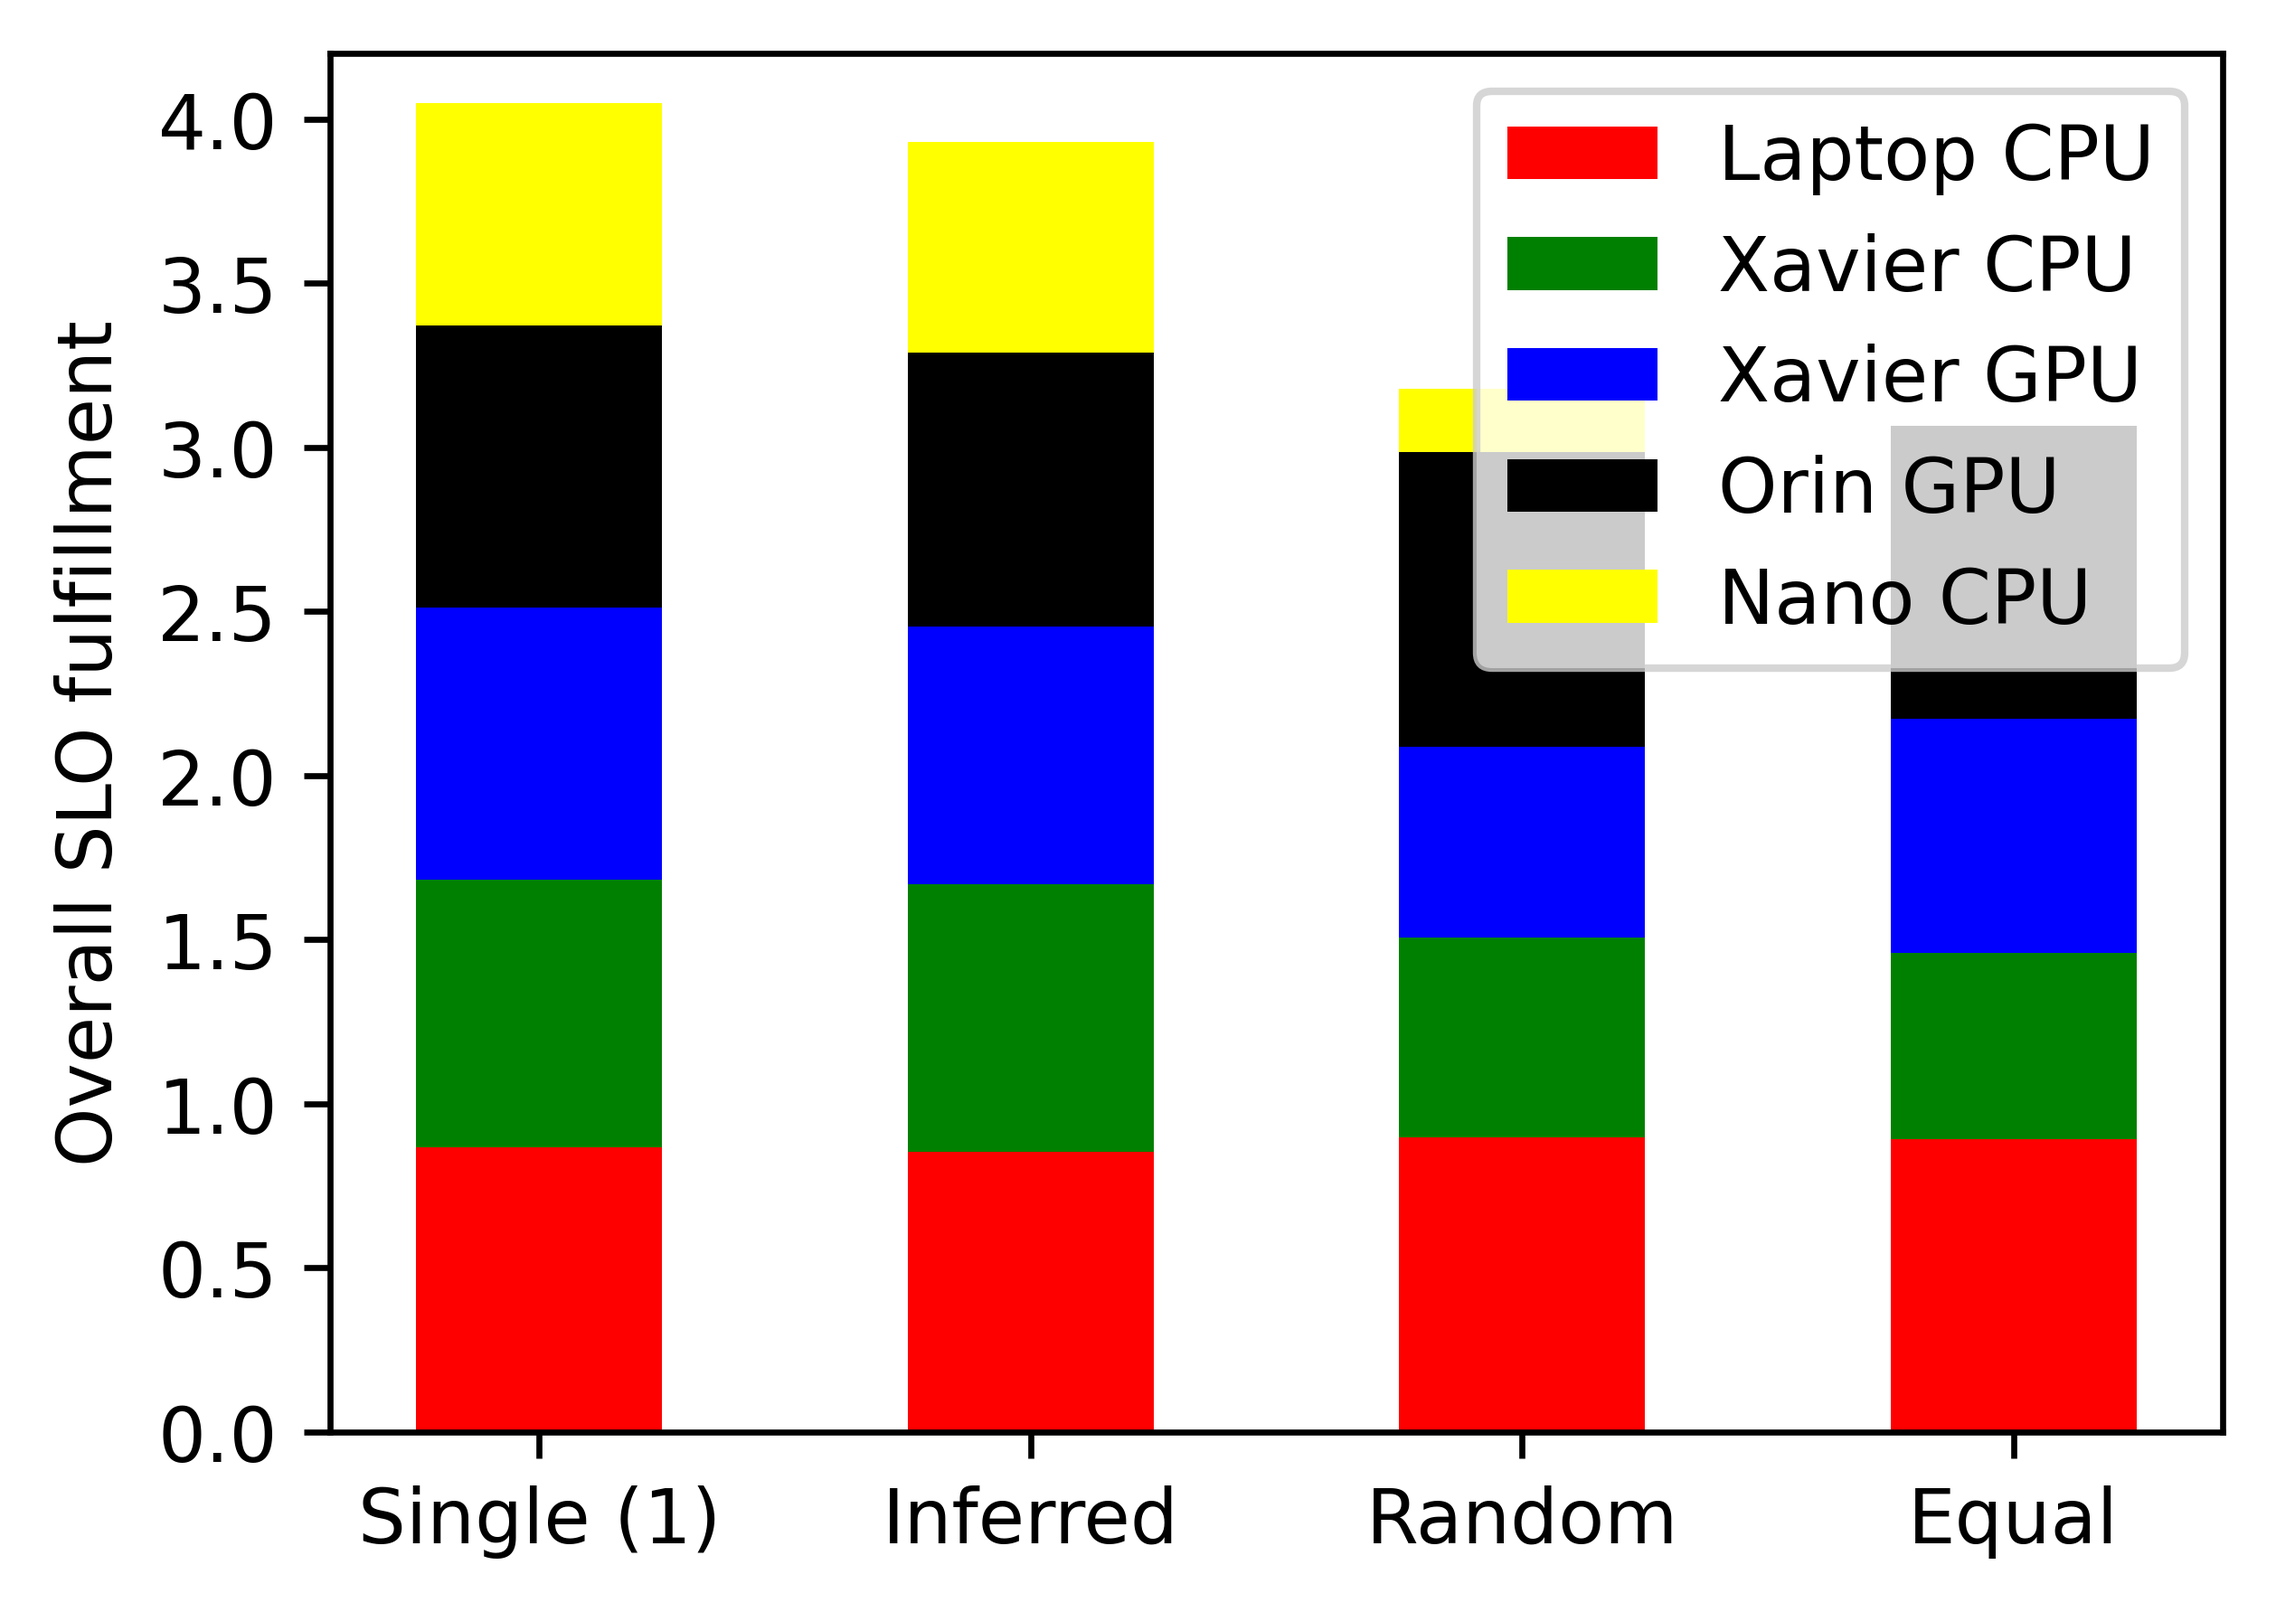
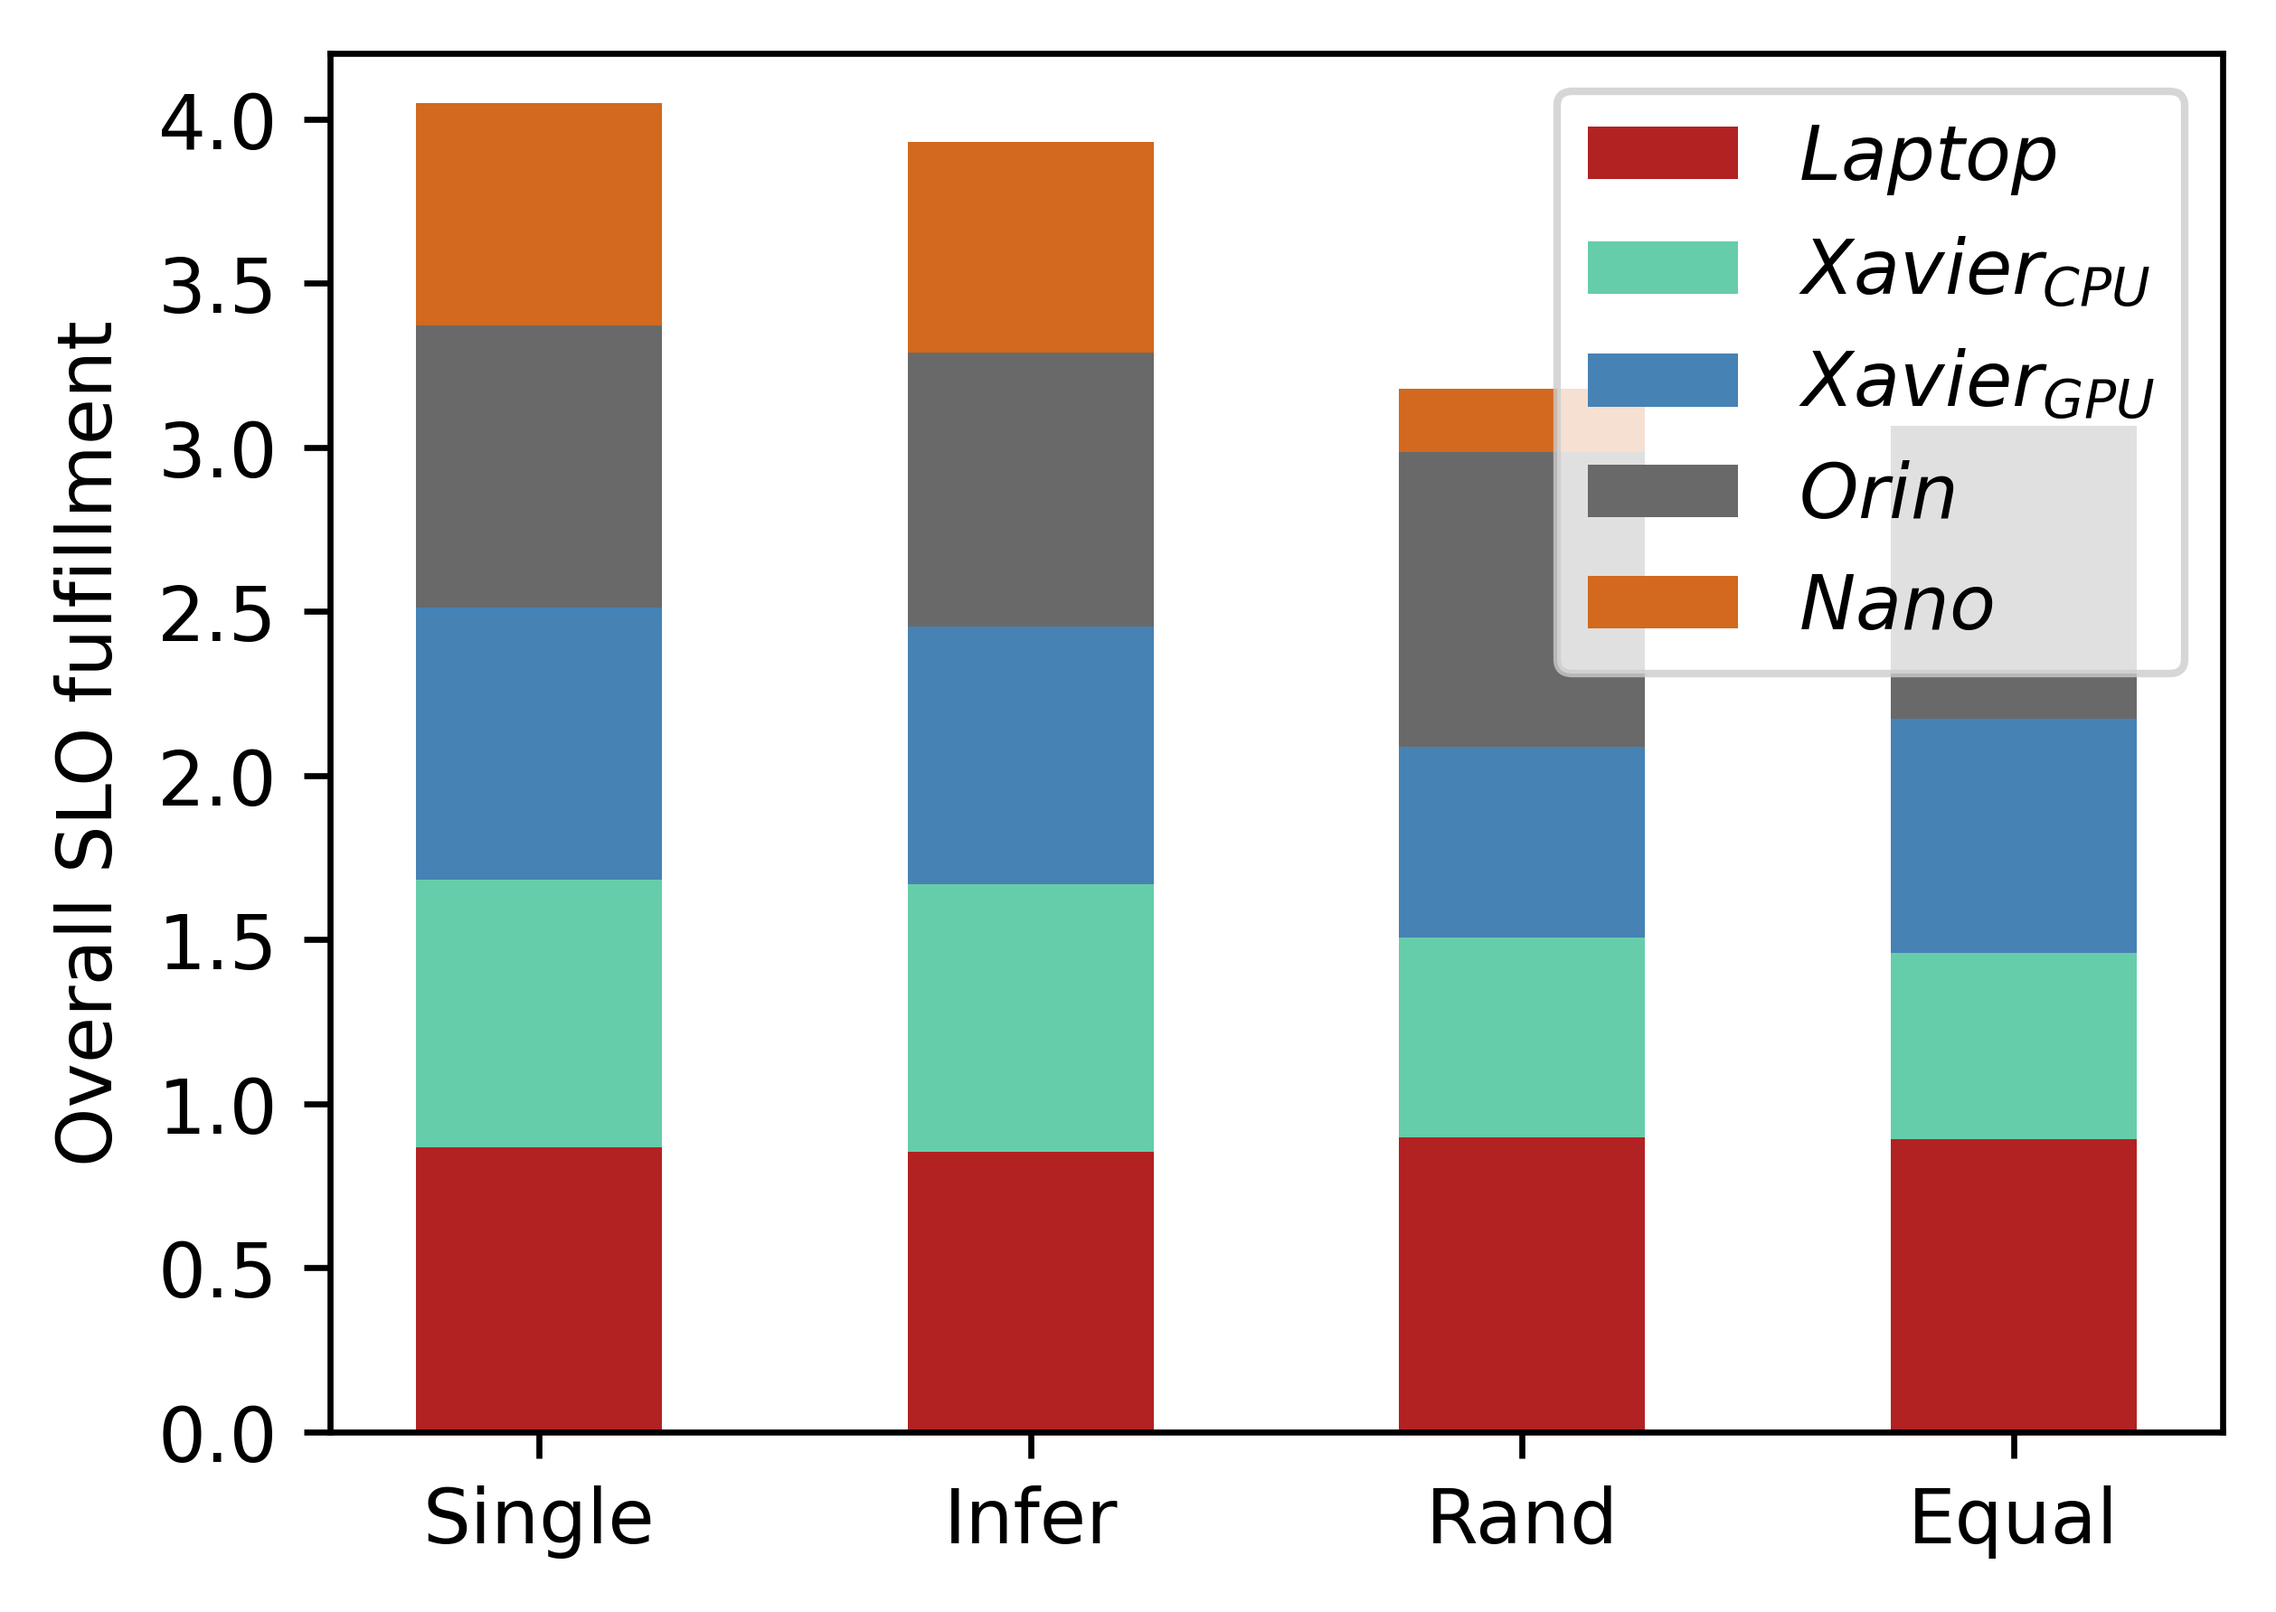
new colors and labels

diff --git a/FGCS/CC/overall_slo/draw.py b/FGCS/CC/overall_slo/draw.py
@@ -10,13 +10,14 @@ from matplotlib import pyplot as plt
 ROOT = os.path.dirname(__file__)
 fig, ax = plt.subplots()
 
-category_color_map = {'Laptop CPU': 'red', 'Nano CPU': 'yellow', 'Xavier CPU': 'green',
-                      'Xavier GPU': 'blue', 'Orin GPU': 'black'}
+category_color_map = {r'$\mathit{Laptop}$': 'firebrick', r'$\mathit{Nano}$': 'chocolate',
+                      r'$\mathit{Xavier_{CPU}}$': 'mediumaquamarine',
+                      r'$\mathit{Xavier_{GPU}}$': 'steelblue', r'$\mathit{Orin}$': 'dimgray'}
 
 first_bar = True
 
-for file, label in [(ROOT + '/single.csv', 'Single (1)'), (ROOT + '/inferred.csv', 'Inferred'),
-                    (ROOT + '/random.csv', 'Random'), (ROOT + '/equal.csv', 'Equal')]:
+for file, label in [(ROOT + '/single.csv', 'Single'), (ROOT + '/inferred.csv', 'Infer'),
+                    (ROOT + '/random.csv', 'Rand'), (ROOT + '/equal.csv', 'Equal')]:
 
     df = pd.read_csv(file)
     df['fact'] = df['pv'] * df['ra']
@@ -26,11 +27,11 @@ for file, label in [(ROOT + '/single.csv', 'Single (1)'), (ROOT + '/inferred.csv
     result = df.groupby('id')['fact'].mean()
     result_dict = result.to_dict()
 
-    result_dict['Laptop CPU'] = result_dict['Laptop0']
-    result_dict['Xavier CPU'] = result_dict['Xavier0']
-    result_dict['Xavier GPU'] = result_dict['Xavier1']
-    result_dict['Orin GPU'] = result_dict['Orin1']
-    result_dict['Nano CPU'] = result_dict['Nano0']
+    result_dict[r'$\mathit{Laptop}$'] = result_dict['Laptop0']
+    result_dict[r'$\mathit{Xavier_{CPU}}$'] = result_dict['Xavier0']
+    result_dict[r'$\mathit{Xavier_{GPU}}$'] = result_dict['Xavier1']
+    result_dict[r'$\mathit{Orin}$'] = result_dict['Orin1']
+    result_dict[r'$\mathit{Nano}$'] = result_dict['Nano0']
     del result_dict['Laptop0']
     del result_dict['Xavier0']
     del result_dict['Xavier1']

diff --git a/FGCS/CC/regression_functions/draw.py b/FGCS/CC/regression_functions/draw.py
@@ -1,5 +1,3 @@
-import sys
-
 import joblib
 import numpy as np
 from matplotlib import pyplot as plt
@@ -37,9 +35,11 @@ model_Nano = joblib.load("models/Nano.sav")
 x_range = np.linspace(1, 26)
 fig, ax = plt.subplots()
 
-for m, gpu, s, c in [(model_Laptop, 0, "Laptop CPU", "red"), (model_Xavier, 0, "Xavier CPU", "green"),
-                     (model_Xavier, 1, "Xavier GPU", "blue"), (model_Orin, 1, "Orin GPU", "black"),
-                     (model_Nano, 0, "Nano CPU", "orange")]:
+for m, gpu, s, c in [(model_Laptop, 0, r'$\mathit{Laptop}$', "firebrick"),
+                     (model_Xavier, 0, r'$\mathit{Xavier_{CPU}}$', "mediumaquamarine"),
+                     (model_Xavier, 1, r'$\mathit{Xavier_{GPU}}$', "steelblue"),
+                     (model_Orin, 1, r'$\mathit{Orin}$', "dimgray"),
+                     (model_Nano, 0, r'$\mathit{Nano}$', "chocolate")]:
     input_data = np.column_stack((x_range, np.full(x_range.shape, gpu)))
     y_pred_full = m.predict(poly_features.fit_transform(input_data))
     y_pred_factor = y_pred_full[:, 0] * y_pred_full[:, 1]

diff --git a/FGCS/KT/laptop_xavier/draw.py b/FGCS/KT/laptop_xavier/draw.py
@@ -37,7 +37,7 @@ plt.plot(x, gpu_diff.iloc[0:100], color='gold', label="Diff GPU")
 # plt.scatter([3, 3], [df.iloc[2]['pv'], df.iloc[2]['ra']], marker='*', color='orange',
 #             label=star)
 
-ax.set_xlim(0, 70)
+ax.set_xlim(0, 60)
 fig.set_size_inches(4.5, 3.3)
 ax.set_xlabel('ACI Cycle Iteration')
 ax.set_ylabel('Difference KT/Scratch SLOs')
